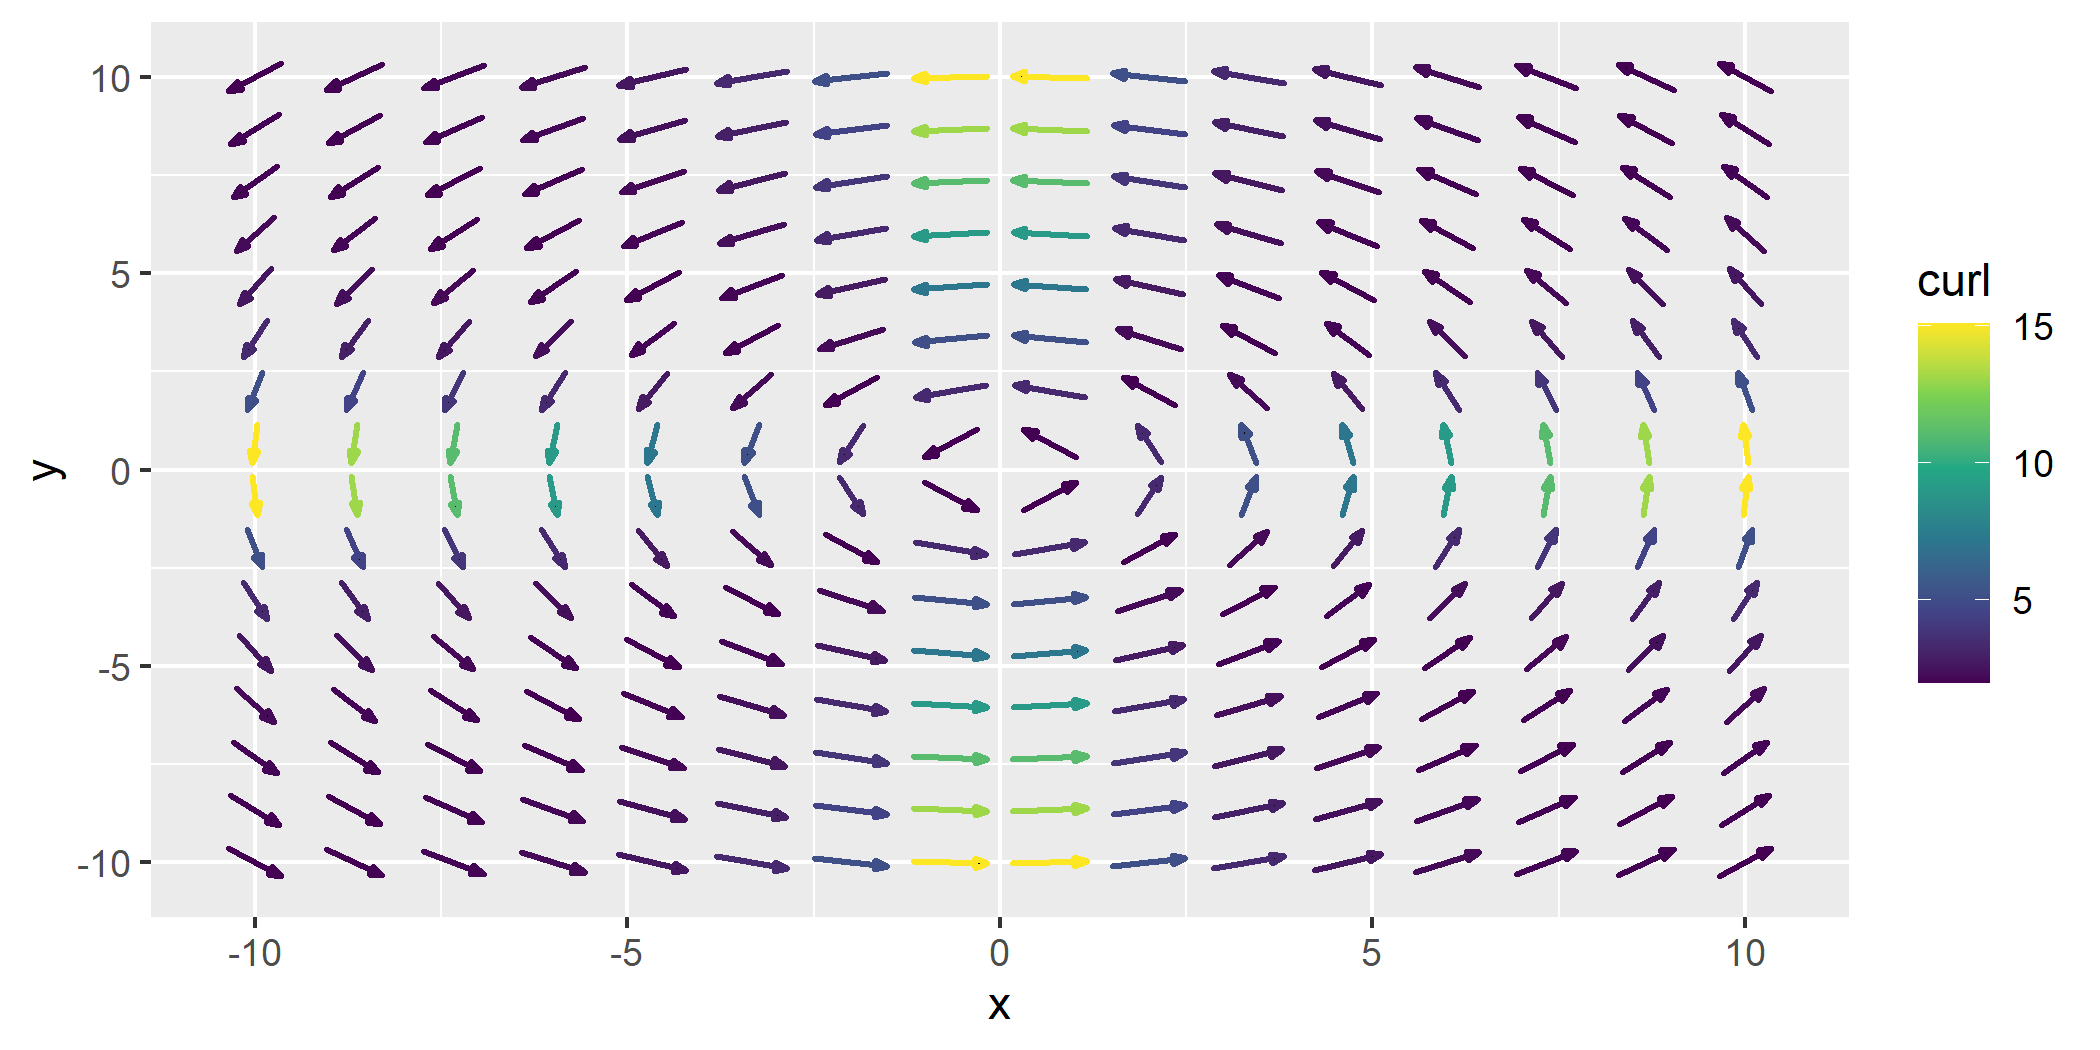
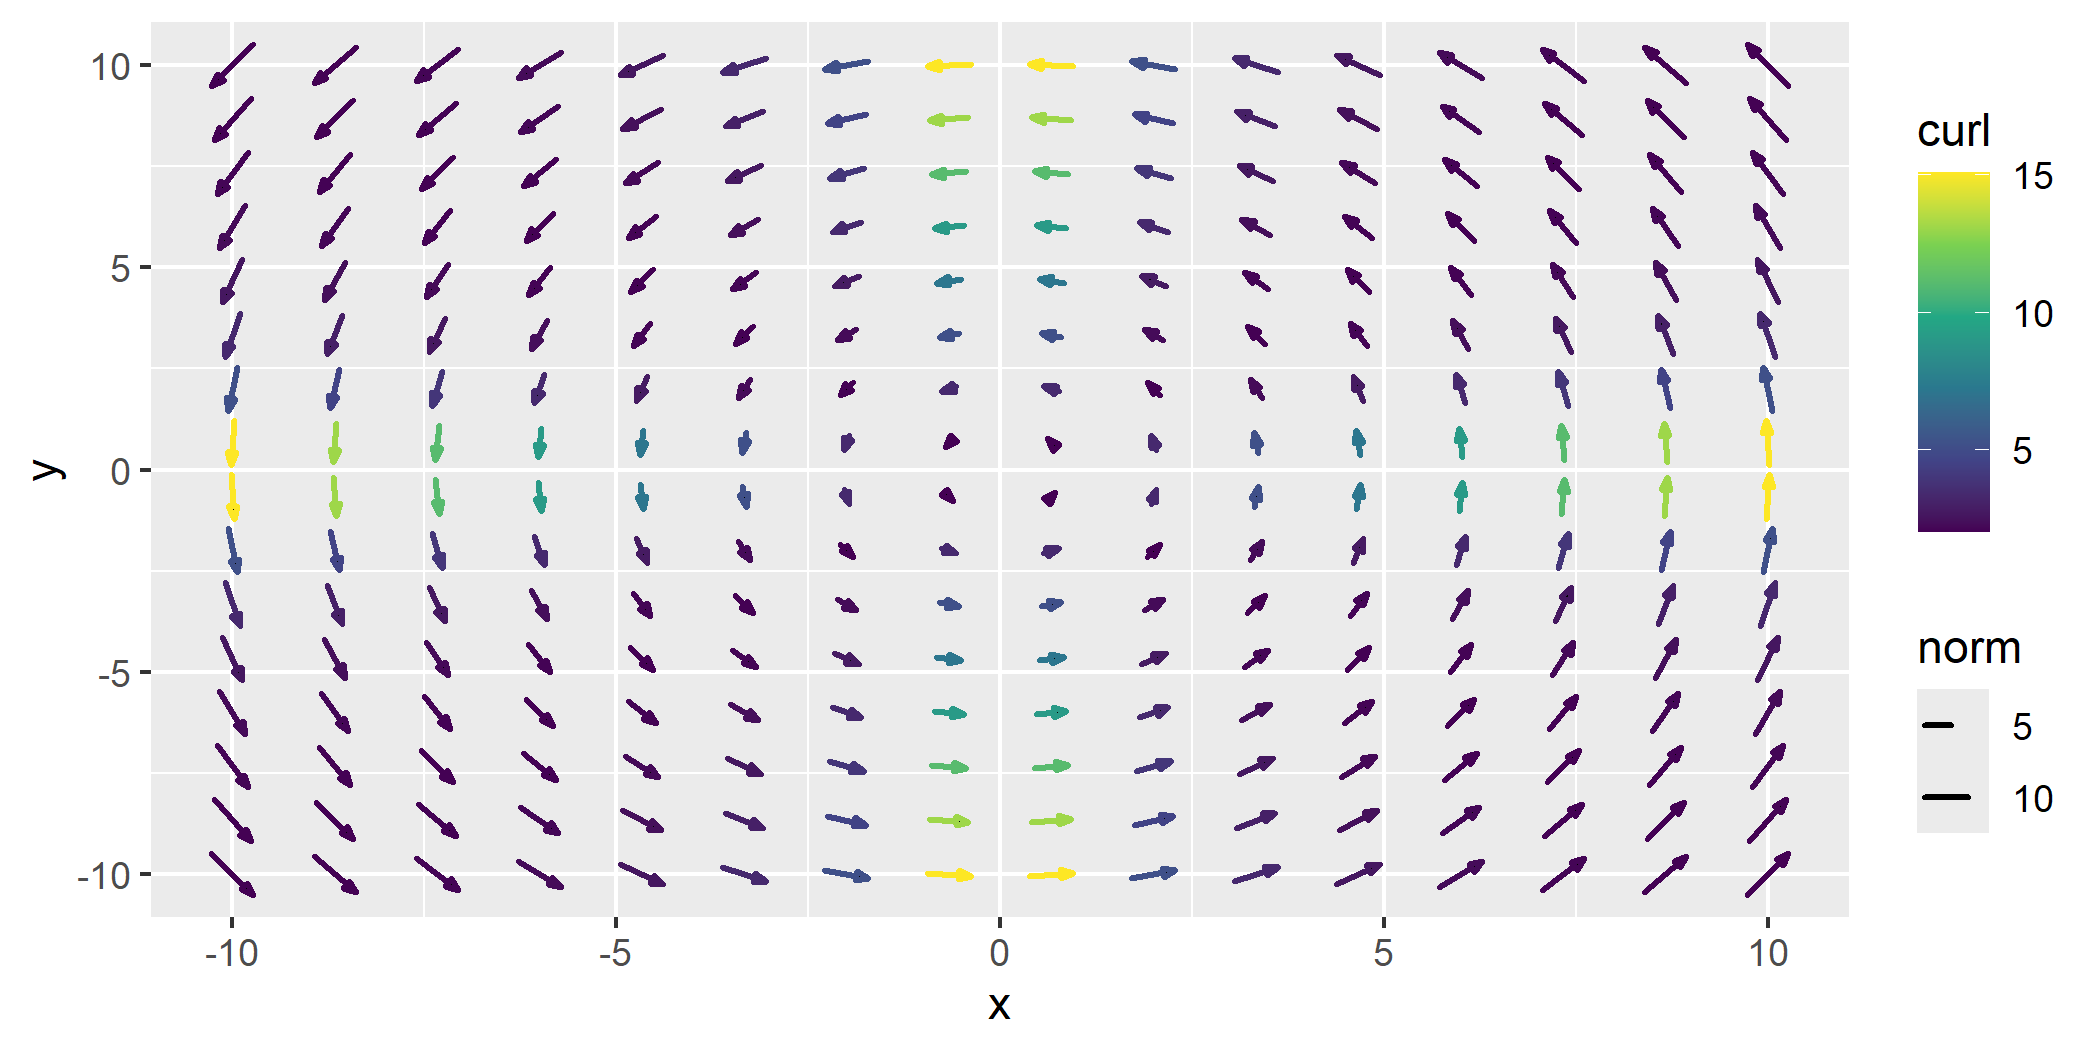
edit default to vector field length

diff --git a/README.md b/README.md
@@ -116,7 +116,7 @@ wind_data_cartesian |>
   ggplot() +
   geom_vector(aes(x = lon, y = lat, dx = dx, dy = dy, length = after_stat(norm)), 
               tail_point = TRUE, center = TRUE) +
-  labs(title = "Wind Vectors (Cartesian Input)",
+  labs(title = "Wind Vectors",
        x = "Longitude", y = "Latitude") 
 #> Note: `normalize = TRUE` does not affect `dx` and `dy` when the `length` aesthetic is mapped.
 #> Ensure your `length` values reflect the intended scaling.
@@ -124,7 +124,7 @@ wind_data_cartesian |>
 
 <img src="man/figures/README-unnamed-chunk-6-1.png" width="100%" />
 
-### `geom_vector_field()`
+### `geom_vector_field()`: Visualizing Vector Fields
 
 The `geom_vector_field()` function creates a vector field plot using a
 user-defined function to compute vector components. This abstraction
@@ -154,9 +154,16 @@ the visual representation of vectors:
   useful when the vector field is meant to represent flow starting
   *from* a point, rather than centered around it.
 
-By using these two options, you can control whether vector lengths are
-uniform or reflect their actual magnitudes and how the vectors are
-positioned relative to their base coordinates.
+Additionally, **`geom_vector_field()` defaults to
+`length = after_stat(norm)`**, which maps the computed vector norms to
+the `length` aesthetic. This means that unless specified otherwise, the
+vectors’ lengths will automatically be proportional to their calculated
+magnitudes.
+
+By using these options, you can control whether vector lengths are
+uniform or reflect their actual magnitudes, how the vectors are
+positioned relative to their base coordinates, and how the `length`
+aesthetic is used in your plot.
 
 #### Example: Basic Vector Field Plot
 
@@ -168,7 +175,7 @@ f <- function(v) {
 
 ggplot() +
   geom_vector_field(
-    fun = f, xlim = c(-10, 10), ylim = c(-10, 10), normalize = TRUE, center = TRUE
+    fun = f, xlim = c(-10, 10), ylim = c(-10, 10), normalize = FALSE, center = TRUE
     ) 
 ```
 
@@ -254,6 +261,8 @@ ggplot() +
     aes(color = after_stat(curl)), 
     fun = f, xlim = c(-10, 10), ylim = c(-10, 10)
   ) 
+#> Note: `normalize = TRUE` does not affect `dx` and `dy` when the `length` aesthetic is mapped.
+#> Ensure your `length` values reflect the intended scaling.
 ```
 
 <img src="man/figures/README-unnamed-chunk-10-1.png" width="100%" />
